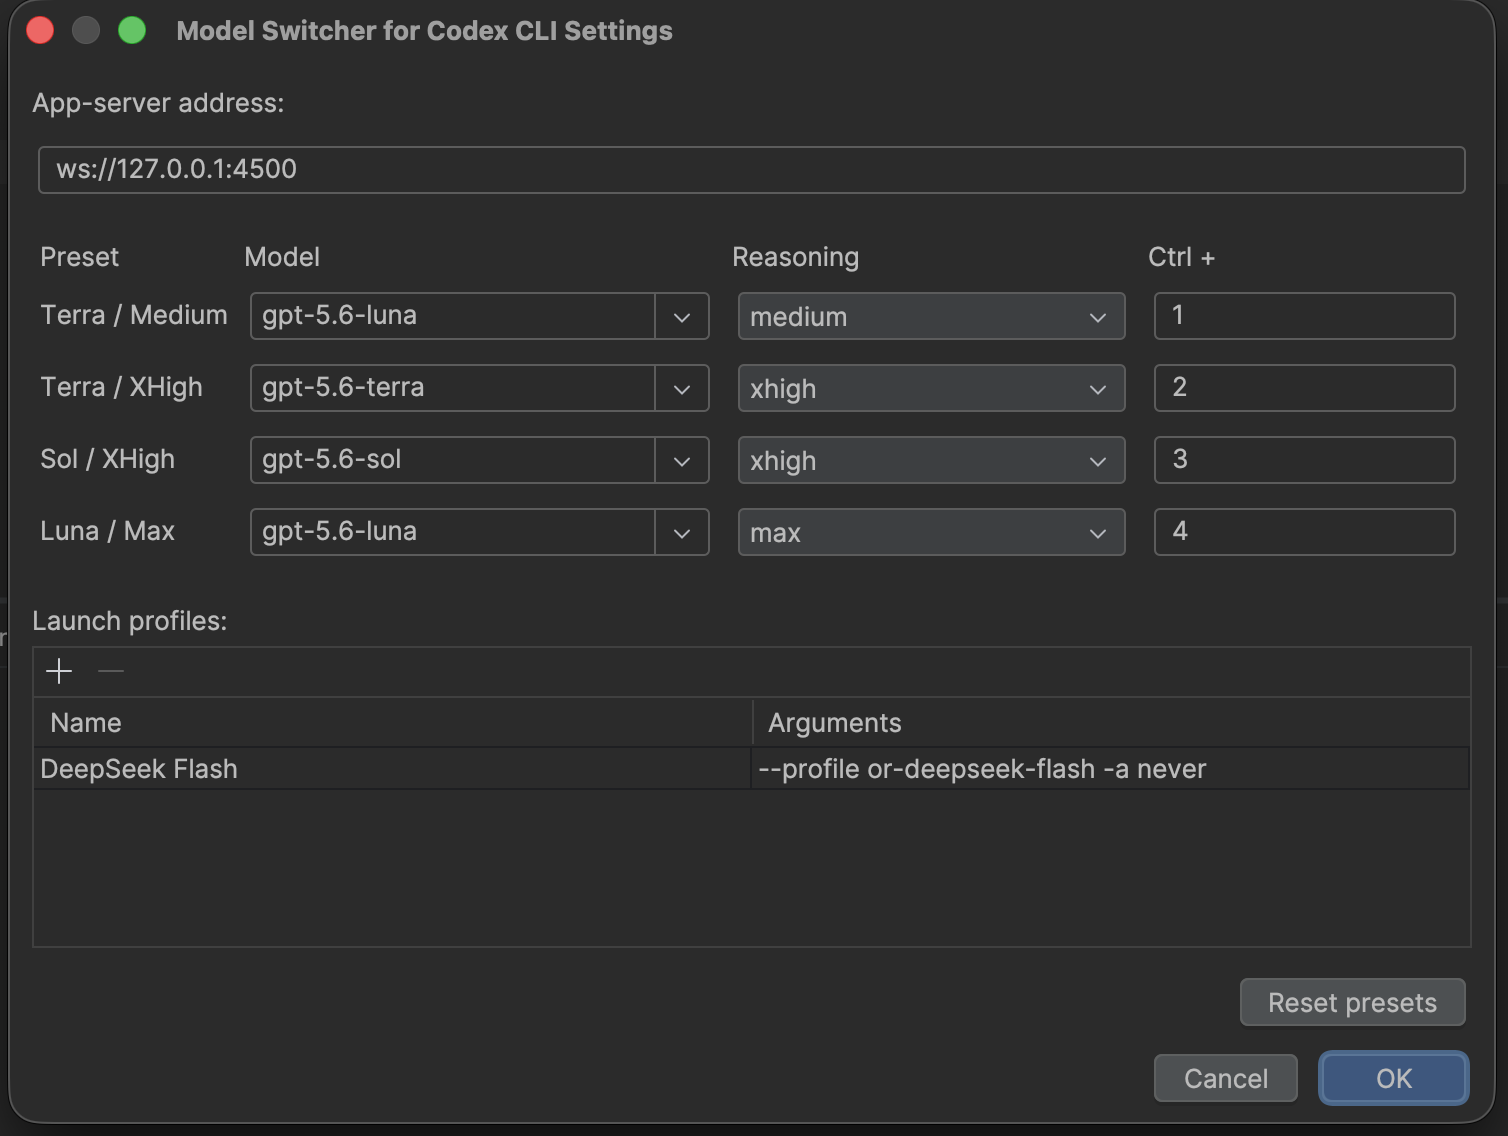
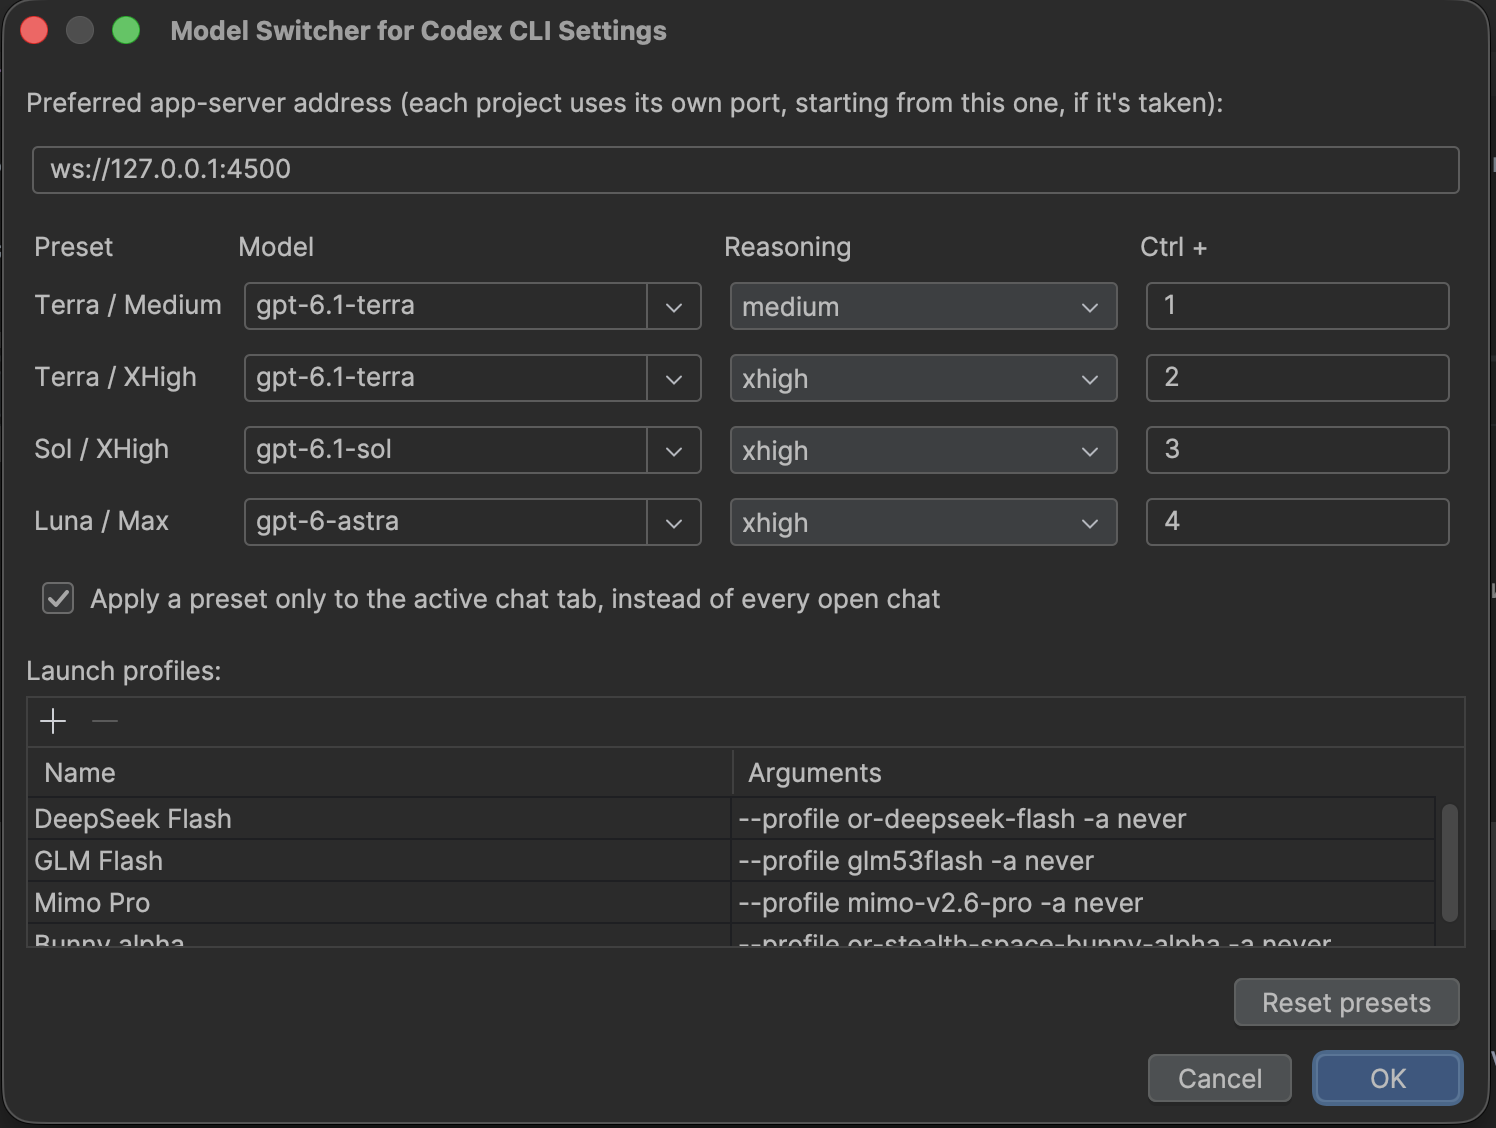
docs: update screenshots for 2.0

diff --git a/README.md b/README.md
@@ -73,6 +73,10 @@ The status bar shows Codex token consumption across all agents:
 ⛽ 7.0k tok/min · 🤖 2 · 24h 8.4k · 7d 5.2k
 ```
 
+<p align="center">
+  <img src="screenshots/usage.png" alt="Codex usage details" width="360">
+</p>
+
 That is the rate over the last 5 minutes, the number of agents active in that window, and the average rate over
 the last 24 hours and 7 days. Click it for a breakdown of the current project vs. all agents, with 24-hour, 7-day
 and 30-day averages and totals. Hide it like any other widget: right-click the status bar and uncheck
